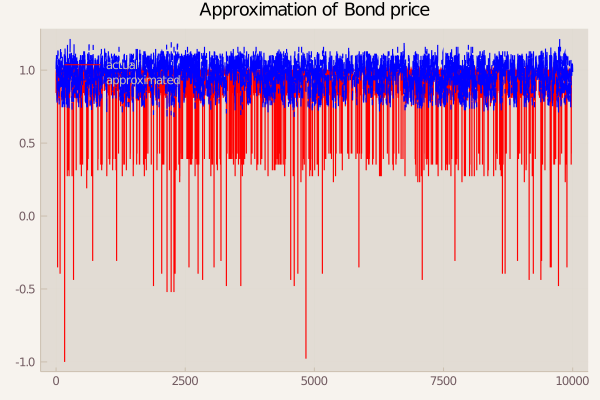
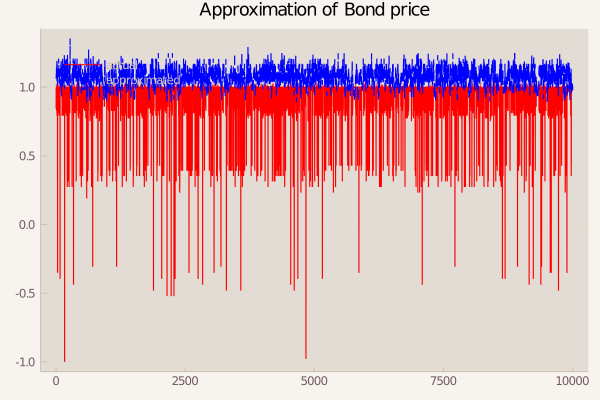
ya ta

diff --git a/index.md b/index.md
@@ -161,3 +161,12 @@ qhat       = DefaultEconomy.neuralAprrox(VFNeuF[2],VFNeuF[3],neuSettings=NeuralC
 DefaultEconomy.graph_neural(qhat, "Bond price", ["BQneural.pdf" "BQNeuralSmpl.pdf"]);
 ```
 ![NeuralApproxQ](.//Figures//BQNeuralSmpl.png)
+
+We can see that there are not minimal differences when we try to approximate the price schedule. To see what happen I plot both the simulated data with their respective estimations.
+![PriceQ](.//FiguresAdi//QB.png)
+
+![PriceY](.//FiguresAdi//QY.png)
+
+If we make similar plot in surface type, we observe that big non linearity is not effective cover by the approximation.
+
+![surface](.//FiguresAdi//surface.png)
